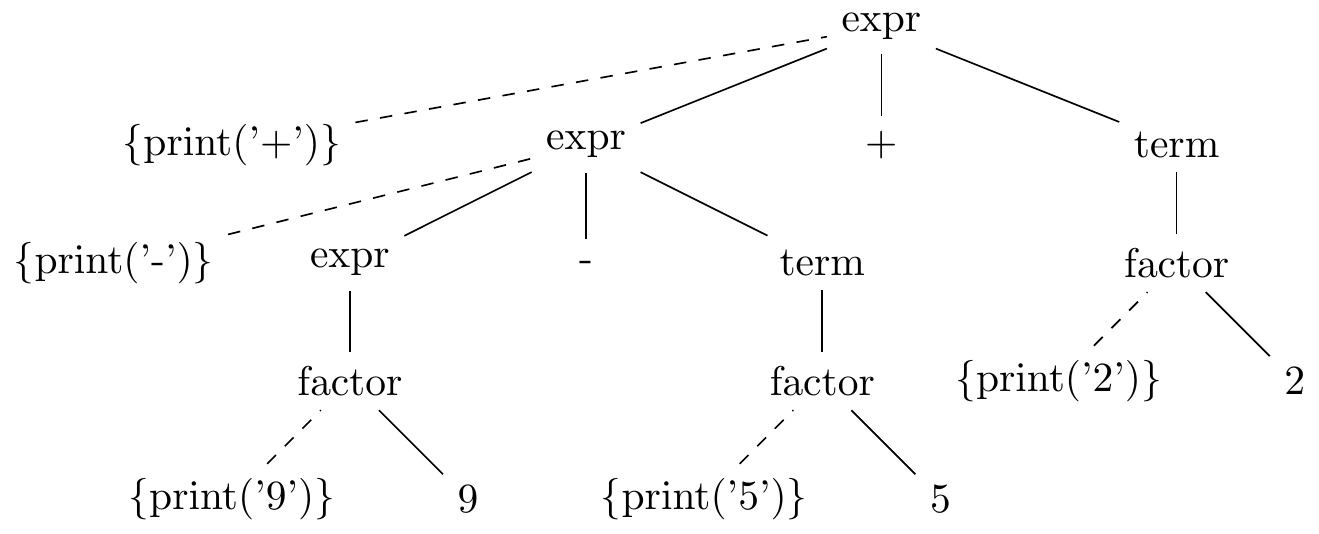
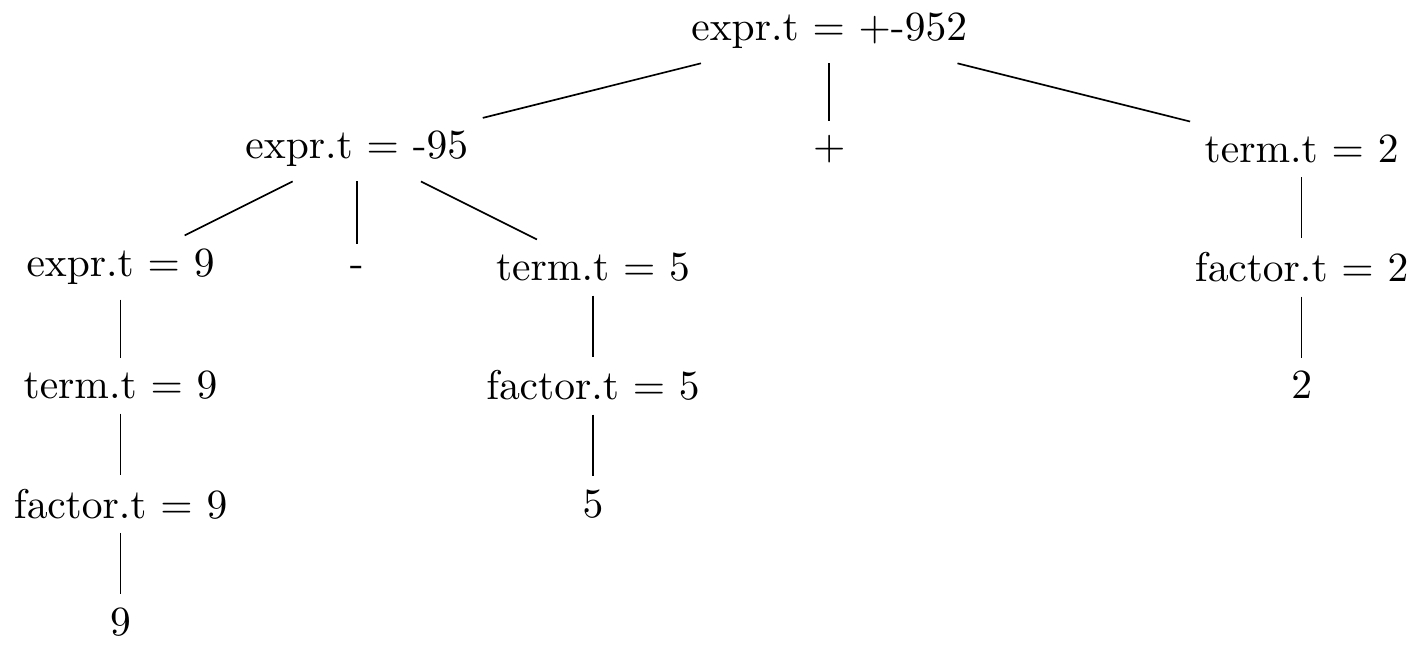
Draw annotated parse tree for 2.7

diff --git a/ch02/img/2.7.tex b/ch02/img/2.7.tex
@@ -2,48 +2,41 @@
 \usepackage{tikz}
 \begin{document}
 \begin{tikzpicture}
-  \node (p9) at (0, 0) {\{print('9')\}};
-  \node (9) at (2, 0) {9};
-  \node (p5) at (4, 0) {\{print('5')\}};
-  \node (5) at (6, 0) {5};
+  \node (e) at (0, 0) {expr.t = +-952};
 
-  \node (f9) at (1, 1) {factor};
-  \node (f5) at (5, 1) {factor};
-  \node (p2) at (7, 1) {\{print('2')\}};
-  \node (2) at (9, 1) {2};
+  \node (e95) at (-4, -1) {expr.t = -95};
+  \node (e+) at (0, -1) {+};
+  \node (t2) at (4, -1) {term.t = 2};
+  \draw (e) -- (e95);
+  \draw (e) -- (e+);
+  \draw (e) -- (t2);
 
-  \draw[dashed] (p9) -- (f9);
-  \draw (9) -- (f9);
-  \draw[dashed] (p5) -- (f5);
-  \draw (5) -- (f5);
+  \node (e9) at (-6, -2) {expr.t = 9};
+  \node (e-) at (-4, -2) {-};
+  \node (t5) at (-2, -2) {term.t = 5};
+  \draw (e95) -- (e9);
+  \draw (e95) -- (e-);
+  \draw (e95) -- (t5);
 
-  \node (p-) at (-1, 2) {\{print('-')\}};
-  \node (e9) at (1, 2) {expr};
-  \node (-) at (3, 2) {-};
-  \node (t5) at (5, 2) {term};
-  \node (f2) at (8, 2) {factor};
+  \node (f2) at (4, -2) {factor.t = 2};
+  \draw (t2) -- (f2);
 
-  \draw (f9) -- (e9);
-  \draw (f5) -- (t5);
-  \draw[dashed] (p2) -- (f2);
-  \draw (2) -- (f2);
+  \node (t9) at (-6, -3) {term.t = 9};
+  \draw (e9) -- (t9);
 
-  \node (p+) at (0, 3) {\{print('+')\}};
-  \node (e-) at (3, 3) {expr};
-  \node (+) at (5.5, 3) {+};
-  \node (t2) at (8, 3) {term};
+  \node (f5) at (-2, -3) {factor.t = 5};
+  \draw (t5) -- (f5);
 
-  \draw[dashed] (p-) -- (e-);
-  \draw (e9) -- (e-);
-  \draw (-) -- (e-);
-  \draw (t5) -- (e-);
-  \draw (f2) -- (t2);
+  \node (2) at (4, -3) {2};
+  \draw (f2) -- (2);
 
-  \node (e) at (5.5, 4) {expr};
+  \node (f9) at (-6, -4) {factor.t = 9};
+  \draw (t9) -- (f9);
 
-  \draw[dashed] (p+) -- (e);
-  \draw (e-) -- (e);
-  \draw (+) -- (e);
-  \draw (t2) -- (e);
+  \node (5) at (-2, -4) {5};
+  \draw (f5) -- (5);
+
+  \node (9) at (-6, -5) {9};
+  \draw (f9) -- (9);
 \end{tikzpicture}
 \end{document}
